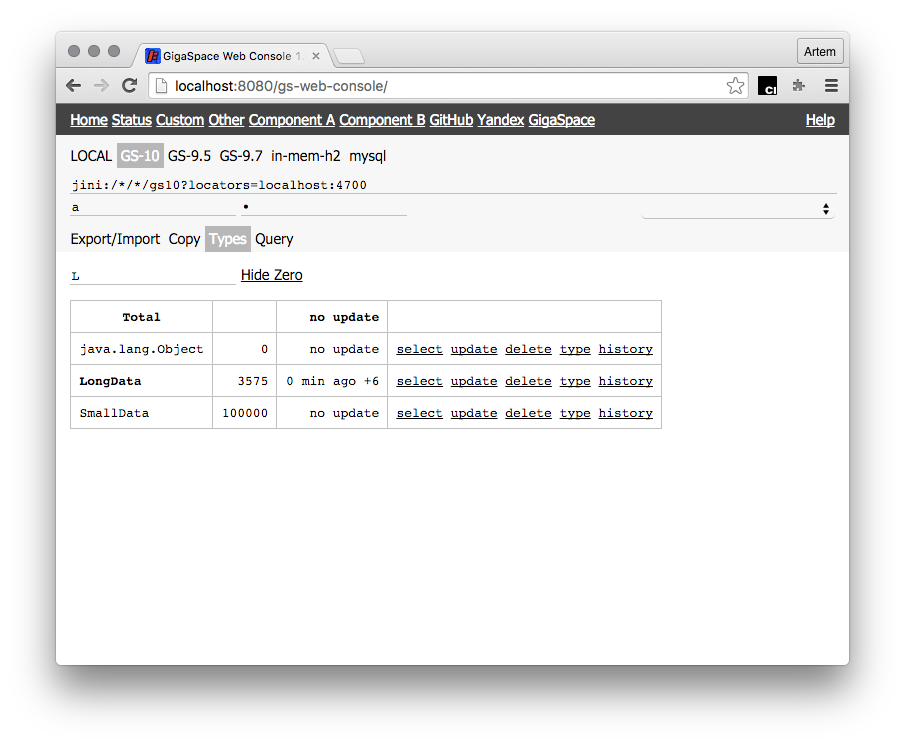
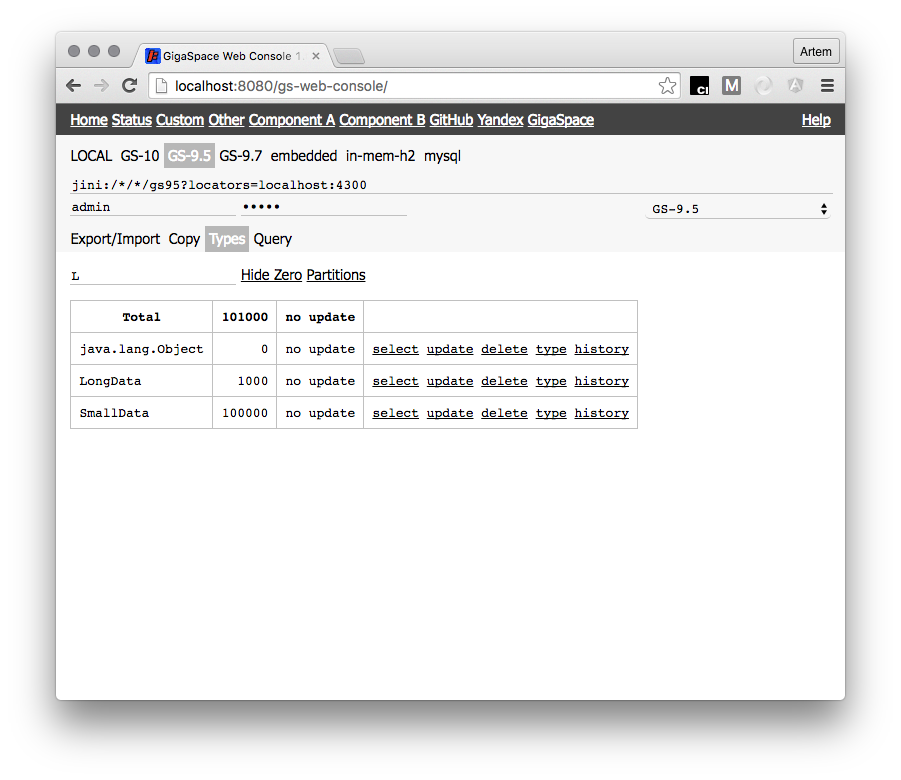
Update README

Changed region(s): [[0.0622, 0.0309, 0.9323, 0.5866], [0.7148, 0.247, 0.7769, 0.2779], [0.9012, 0.247, 0.9323, 0.2779]]

diff --git a/README.md b/README.md
@@ -13,6 +13,7 @@ Powerful alternative for GigaSpace Management Console when you have a lot of wor
  * [Execute SQL Queries](#execute-sql-queries)
  * [Registered Types and Counts](#registered-types-and-counts)
    * [Counts History](#counts-history) 
+   * [Counts By Partitions](#counts-by-partitions) 
  * [Execute Groovy](#work-with-groovy)
  * [Copy data between spaces](#copy-data-between-spaces)
  * [Export / Import data](#export--import-data)
@@ -118,7 +119,7 @@ Useful parameters:
 
 When you start your console first time after configuration you will see:
 
-![Start](https://raw.githubusercontent.com/terma/gigaspace-sql-console/master/img/start.png)
+![Start](https://raw.githubusercontent.com/terma/gigaspace-web-console/master/img/start.png)
 
 ## Execute SQL queries
 
@@ -132,7 +133,7 @@ Select preconfigured space or type url details and click on -Query- tab
 * When value size for one cell more ```50``` result will be truncated, so ```result``` plus ```...``` to show full result just click on ```Show/Hide all text``` under each result table
 * For columns which looks like timestamp you can click on ```T?``` after column name so console shows result in date format for example ```1424054208000``` will be show as ```1424054208000 = Mon, 16 Feb 2015 02:36:48 GMT```
 
-![Execute SQL Queries](https://raw.githubusercontent.com/terma/gigaspace-sql-console/master/img/execute.png)
+![Execute SQL Queries](https://raw.githubusercontent.com/terma/gigaspace-web-console/master/img/execute.png)
 
 ### Work with timestamps
 
@@ -156,13 +157,20 @@ That's all
 
 ## Registered types and counts
 
-![Registered Types and Counts](https://raw.githubusercontent.com/terma/gigaspace-sql-console/master/img/types.png)
+![Registered Types and Counts](https://raw.githubusercontent.com/terma/gigaspace-web-console/master/img/types.png)
 
 ### Counts History
 
 On Types Tab you for any type you can click History to track dynamic of count
 
-![Counts History](https://raw.githubusercontent.com/terma/gigaspace-sql-console/master/img/counts-history.png)
+![Counts History](https://raw.githubusercontent.com/terma/gigaspace-web-console/master/img/counts-history.png)
+
+### Counts By Partitions
+
+By switching Partitions/Space on Types Tab you can see count for space or partitions. That helps a lot 
+when you need to how good your routing keys
+
+![Counts By Partitions](https://raw.githubusercontent.com/terma/gigaspace-web-console/master/img/counts-by-partitions.png)
 
 ## Work with Groovy
 
@@ -171,7 +179,7 @@ Sometimes you have complex queries which depends on each other or complex calcul
 First of all enable groovy by adding ```groovy``` word in first line of editor.
 Second, create simple [Groovy](http://groovy.codehaus.org/) script and run it in console!
 
-![Execute Groovy Script](https://raw.githubusercontent.com/terma/gigaspace-sql-console/master/img/groovy.png)
+![Execute Groovy Script](https://raw.githubusercontent.com/terma/gigaspace-web-console/master/img/groovy.png)
 
 A few additional words about Groovy in console. Withing your script you can use all groovy features (don't forget about proper import) plus a few additional: 
 
@@ -205,7 +213,7 @@ gs.clear(null)
 
 ## Copy data between spaces
 
-![Copy data between spaces](https://raw.githubusercontent.com/terma/gigaspace-sql-console/master/img/copy.png)
+![Copy data between spaces](https://raw.githubusercontent.com/terma/gigaspace-web-console/master/img/copy.png)
 
 ### Copy part of data
 
